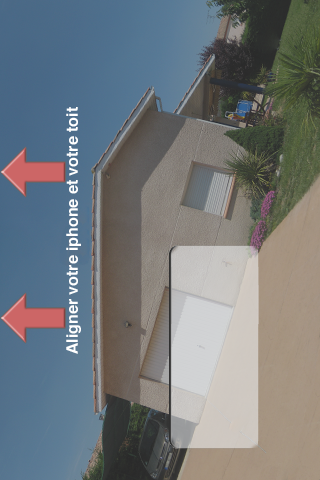
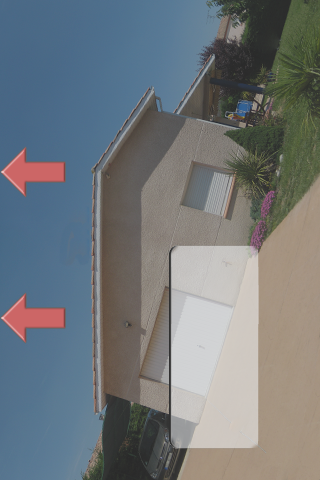
Rajout argument langue pour que le serveur réponde dans la bonne langue Modification de l'icône "Localiser son adresse" dans la partie GPS Suite de la mise en place des traductions dans l'application Optimisation du code pour ne pas passer par des variables NSString PB de la localisation de la page 

Changed region(s): [[0.1875, 0.2188, 0.25, 0.75]]

diff --git a/Classes/MenuViewController.m b/Classes/MenuViewController.m
@@ -56,11 +56,9 @@ const int CNX_VERSION_OBSOLETE = -2;
 - (void)viewDidLoad {
     //[super viewDidLoad];
     
-    NSString *sTexteRetour = NSLocalizedString(@"Back","");
-
     
 	// Bouton Retour
-    self.navigationItem.backBarButtonItem =  [[[UIBarButtonItem alloc] initWithTitle:sTexteRetour style: UIBarButtonItemStylePlain target:nil action:nil] autorelease];
+    self.navigationItem.backBarButtonItem =  [[[UIBarButtonItem alloc] initWithTitle:NSLocalizedString(@"Back","") style: UIBarButtonItemStylePlain target:nil action:nil] autorelease];
     
 	// Création par programme de la hiérarchie de vues (p34) 
     
@@ -79,17 +77,7 @@ const int CNX_VERSION_OBSOLETE = -2;
 	float btnHeight = 40.0;
 	float btnInterval = 10.0;
     
-    
-    NSString *sTexteEstimer = NSLocalizedString(@"Estimate my production",
-                                                @"Bouton du menu d'accueil - option Estimer ma production.");
-    
-    NSString *sTexteFiche_Proches = NSLocalizedString(@"Near installations",
-                                                      @"Bouton du menu d'accueil - option Fiches proches.");
-    
-    NSString *sTexteAbout = NSLocalizedString(@"About",
-                                              @"Bouton du menu d'accueil - option Fiche proche.");
-    
-    
+        
 	// ----- Bouton Estimer ma production
 	CGRect btnRect= CGRectMake(btnX, btnFirstY, btnWidth, btnHeight);
 	//UIButton *btnEstimer=[[UIButton alloc] initWithFrame:btnRect];
@@ -97,7 +85,7 @@ const int CNX_VERSION_OBSOLETE = -2;
 	//btnEstimer.backgroundColor=[UIColor clearColor];
 	btnEstimer.frame=btnRect;
     //	[btnEstimer setTitle:@"Estimer ma production" forState:UIControlStateNormal];
-	[btnEstimer setTitle:sTexteEstimer forState:UIControlStateNormal];
+	[btnEstimer setTitle:NSLocalizedString(@"Estimate my production","") forState:UIControlStateNormal];
 	//[btnEstimer setTitleColor:[UIColor blueColor] forState:UIControlStateNormal];
 	[btnEstimer addTarget:self action:@selector(actEstimer:) forControlEvents:UIControlEventTouchUpInside];
 	[rootView addSubview:btnEstimer];
@@ -110,7 +98,7 @@ const int CNX_VERSION_OBSOLETE = -2;
 	UIButton *btnFichesProches=[[UIButton buttonWithType:UIButtonTypeRoundedRect] retain];	// retain???
 	btnFichesProches.frame=btnRect;
     //	[btnFichesProches setTitle:@"Fiches proches" forState:UIControlStateNormal];
-	[btnFichesProches setTitle:sTexteFiche_Proches forState:UIControlStateNormal];
+	[btnFichesProches setTitle:NSLocalizedString(@"Near installations","") forState:UIControlStateNormal];
 	[btnFichesProches addTarget:self action:@selector(actFichesProches:) forControlEvents:UIControlEventTouchUpInside];
 	[rootView addSubview:btnFichesProches];
 	[btnFichesProches release];
@@ -134,7 +122,7 @@ const int CNX_VERSION_OBSOLETE = -2;
 	UIButton *btnAPropos=[[UIButton buttonWithType:UIButtonTypeRoundedRect] retain];	// retain???
 	btnAPropos.frame=btnRect;
     //	[btnAPropos setTitle:@"A propos" forState:UIControlStateNormal];
-	[btnAPropos setTitle:sTexteAbout forState:UIControlStateNormal];
+	[btnAPropos setTitle:NSLocalizedString(@"About","") forState:UIControlStateNormal];
 	[btnAPropos addTarget:self action:@selector(actAPropos:) forControlEvents:UIControlEventTouchUpInside];
 	[rootView addSubview:btnAPropos];
 	[btnAPropos release];
@@ -146,8 +134,7 @@ const int CNX_VERSION_OBSOLETE = -2;
 	[rootView release];
     
     //-------------------------------------------------------
-    NSString *sTextePatienter = NSLocalizedString(@"Checking connection iBDPV.fr\nPlease have patience ...","");
-    alertAttenteTestCnx = [[[UIAlertView alloc] initWithTitle:sTextePatienter message:nil delegate:self cancelButtonTitle:nil otherButtonTitles: nil] autorelease];
+    alertAttenteTestCnx = [[[UIAlertView alloc] initWithTitle:NSLocalizedString(@"Checking connection iBDPV.fr\nPlease have patience ...","") message:nil delegate:self cancelButtonTitle:nil otherButtonTitles: nil] autorelease];
     
     UIActivityIndicatorView *indicator = [[UIActivityIndicatorView alloc] initWithActivityIndicatorStyle: UIActivityIndicatorViewStyleWhiteLarge];
     // Adjust the indicator so it is up a few pixels from the bottom of the alert
@@ -253,10 +240,10 @@ const int CNX_VERSION_OBSOLETE = -2;
         
         iEtatConnexion = CNX_BAD;
         UIAlertView *alert = [[[UIAlertView alloc] 
-                               initWithTitle:@"Pas de connexion"
-                               message:@"Impossible de se connecter au serveur BDPV\nMerci d'activer votre connexion Internet et de relancer iBDPV."
+                               initWithTitle:NSLocalizedString(@"No connexion","")
+                               message:NSLocalizedString(@"Unable to connect to the BDPV server.\nPlease check your Internet Connection and try iBDPV again.","")
                                delegate:self
-                               cancelButtonTitle:@"Cancel"
+                               cancelButtonTitle:NSLocalizedString(@"Cancel","")
                                otherButtonTitles:nil]
                               autorelease];
         
@@ -314,22 +301,22 @@ const int CNX_VERSION_OBSOLETE = -2;
             {
                 case -1:
                     alert = [[[UIAlertView alloc] 
-                              initWithTitle:@"Version iBDPV obsolète"
-                              message:[NSString  stringWithFormat:@"Il est nécessaire de télécharger la nouvelle version (v%@).",Num_version_act]
-                              delegate:self
-                              cancelButtonTitle:@"Plus tard"
-                              otherButtonTitles:@"Télécharger",nil]
+                              initWithTitle:NSLocalizedString(@"iBDPV Obsolete version","")
+                              message:[NSString stringWithFormat:NSLocalizedString(@"It is necessary to download the new version (v%@).",""),Num_version_act]
+                               delegate:self
+                              cancelButtonTitle:NSLocalizedString(@"Later","")
+                              otherButtonTitles:NSLocalizedString(@"Download",""),nil]
                              autorelease];
                     [alert show];
                     iEtatConnexion = CNX_VERSION_OBSOLETE;
                     break;
                 case 0:
                     alert = [[[UIAlertView alloc] 
-                              initWithTitle:@"Nouvelle version iBDPV"
-                              message:[NSString stringWithFormat:@"Une version plus récente (v%@) est disponible.",Num_version_act]
+                              initWithTitle:NSLocalizedString(@"New iBDPV version","")
+                              message:[NSString stringWithFormat:NSLocalizedString(@"A newer version (v%@) is available.",""),Num_version_act]
                               delegate:self
-                              cancelButtonTitle:@"Plus tard"
-                              otherButtonTitles: @"Télécharger",nil]
+                              cancelButtonTitle:NSLocalizedString(@"Later","")
+                              otherButtonTitles: NSLocalizedString(@"Download",""),nil]
                              autorelease];
                     [alert show];
                     break;
@@ -340,10 +327,10 @@ const int CNX_VERSION_OBSOLETE = -2;
                     
                 case 2:
                     alert = [[[UIAlertView alloc] 
-                              initWithTitle:@"version iBDPV béta"
-                              message:@"Félicitation, vous utilisez une version béta, non disponible actuellement."
+                              initWithTitle:NSLocalizedString(@"iBDPV béta version","")
+                              message:NSLocalizedString(@"Congratulation, you are using a bèta version.","")
                               delegate:self
-                              cancelButtonTitle:@"OK"
+                              cancelButtonTitle:NSLocalizedString(@"Ok1","")
                               otherButtonTitles: nil]
                              autorelease];
                     [alert show];
@@ -351,10 +338,10 @@ const int CNX_VERSION_OBSOLETE = -2;
                     
                 case -99:
                     alert = [[[UIAlertView alloc] 
-                              initWithTitle:@"Erreur"
-                              message:[NSString stringWithFormat:@"Erreur inconnue (%@) renvoyée par le serveur iBDPV.fr\nMerci d'envoyer un mail à contact@ibdpv.fr",sTexte_erreur]
+                              initWithTitle:NSLocalizedString(@"Error","")
+                              message:[NSString stringWithFormat:NSLocalizedString(@"Unknown error (%@) from iBDPV.com server.\nPlease send a mail to contact@ibdpv.fr",""),sTexte_erreur]
                               delegate:self
-                              cancelButtonTitle:@"Ok"
+                              cancelButtonTitle:NSLocalizedString(@"Ok1","")
                               otherButtonTitles:nil]
                              autorelease];
                     [alert show];
@@ -363,10 +350,10 @@ const int CNX_VERSION_OBSOLETE = -2;
                     
                 default:
                     alert = [[[UIAlertView alloc] 
-                              initWithTitle:@"Erreur inconnue"
-                              message:[NSString stringWithFormat:@"Erreur inconnue renvoyée par le serveur iBDPV.fr\nMerci d'envoyer un mail à contact@ibdpv.fr"]
+                              initWithTitle:NSLocalizedString(@"Unknown error","")
+                              message:NSLocalizedString(@"Unknown error from iBDPV.com server.\nPlease send a mail to contact@ibdpv.fr","")
                               delegate:self
-                              cancelButtonTitle:@"Ok"
+                              cancelButtonTitle:NSLocalizedString(@"Ok1","")
                               otherButtonTitles:nil]
                              autorelease];
                     [alert show];
@@ -376,10 +363,10 @@ const int CNX_VERSION_OBSOLETE = -2;
         
      }  else { // Avec le if(success)
          UIAlertView *alert = [[[UIAlertView alloc] 
-                                initWithTitle:@"Erreur parsing XML"
-                                message:@"Problème d'extraction du XML"
+                                initWithTitle:NSLocalizedString(@"Error parsing XML","")
+                                message:NSLocalizedString(@"Problem extracting XML data","")
                                 delegate:self
-                                cancelButtonTitle:@"Annuler"
+                                cancelButtonTitle:NSLocalizedString(@"Cancel","")
                                 otherButtonTitles:nil]
                                autorelease];
          [alert show];
@@ -439,13 +426,13 @@ const int CNX_VERSION_OBSOLETE = -2;
     [alertAttenteTestCnx dismissWithClickedButtonIndex:0 animated:YES];
      
     UIAlertView *alert = [[[UIAlertView alloc] 
-                           initWithTitle:@"Pas de connexion"
-                           message:@"Impossible de se connecter au serveur BDPV\nMerci d'activer votre connexion Internet et de relancer iBDPV."
+                           initWithTitle:NSLocalizedString(@"No connexion","")
+                           message:NSLocalizedString(@"Unable to connect to the BDPV server.\nPlease check your Internet Connection and try iBDPV again.","")
                            delegate:self
-                           cancelButtonTitle:@"Cancel"
+                           cancelButtonTitle:NSLocalizedString(@"Cancel","")
                            otherButtonTitles:nil]
                           autorelease];
-    
+   
     
     [alert show];
         
@@ -498,20 +485,20 @@ const int CNX_VERSION_OBSOLETE = -2;
     // IMPORTANT  - Faire une fonction pour les UIAlertView (il y en a 2 qui se répète)
     if (iEtatConnexion == CNX_VERSION_OBSOLETE) {
         UIAlertView *alert = [[[UIAlertView alloc] 
-                               initWithTitle:@"Version iBDPV obsolète"
-                               message:[NSString  stringWithFormat:@"Il est nécessaire de télécharger la nouvelle version."]
-                               delegate:self
-                               cancelButtonTitle:@"Plus tard"
-                               otherButtonTitles:@"Télécharger",nil]
+                               initWithTitle:NSLocalizedString(@"iBDPV Obsolete version","")
+                               message:NSLocalizedString(@"It is necessary to download the new version.","")
+                                delegate:self
+                               cancelButtonTitle:NSLocalizedString(@"Later","")
+                               otherButtonTitles: NSLocalizedString(@"Download",""),nil]
                               autorelease];
         [alert show];       
     } // Fin du if (iEtatConnexion == CNX_VERSION_OBSOLETE) {
     else if (iEtatConnexion == CNX_BAD) {
         UIAlertView *alert = [[[UIAlertView alloc] 
-                               initWithTitle:@"IMPOSSIBLE"
-                               message:@"Pas de connexion Internet\nMerci d'activer votre connexion Internet et de relancer iBDPV."
+                               initWithTitle:NSLocalizedString(@"No connexion","")
+                               message:NSLocalizedString(@"Unable to connect to the BDPV server.\nPlease check your Internet Connection and try iBDPV again.","")
                                delegate:self
-                               cancelButtonTitle:@"Annuler"
+                               cancelButtonTitle:NSLocalizedString(@"Cancel","")
                                otherButtonTitles:nil]
                               autorelease];
         
@@ -534,19 +521,19 @@ const int CNX_VERSION_OBSOLETE = -2;
     
     if (iEtatConnexion == CNX_VERSION_OBSOLETE) {
         UIAlertView *alert = [[[UIAlertView alloc] 
-                    initWithTitle:@"Version iBDPV obsolète"
-                    message:[NSString  stringWithFormat:@"Il est nécessaire de télécharger la nouvelle version."]
+                    initWithTitle:NSLocalizedString(@"iBDPV Obsolete version","")
+                    message:NSLocalizedString(@"It is necessary to download the new version.","")
                     delegate:self
-                    cancelButtonTitle:@"Plus tard"
-                    otherButtonTitles:@"Télécharger",nil]
+                    cancelButtonTitle:NSLocalizedString(@"Later","")
+                    otherButtonTitles: NSLocalizedString(@"Download",""),nil]
                     autorelease];
         [alert show];       
     } else if (iEtatConnexion == CNX_BAD) {
         UIAlertView *alert = [[[UIAlertView alloc] 
-                               initWithTitle:@"Fonction non disponible"
-                               message:@"Pas de connexion Internet\nMerci d'activer votre connexion Internet et de relancer iBDPV."
+                               initWithTitle:NSLocalizedString(@"No connexion","")
+                               message:NSLocalizedString(@"Unable to connect to the BDPV server.\nPlease check your Internet Connection and try iBDPV again.","")
                                delegate:self
-                               cancelButtonTitle:@"Annuler"
+                               cancelButtonTitle:NSLocalizedString(@"Cancel","")
                                otherButtonTitles:nil]
                               autorelease];
         

diff --git a/Classes/Estim1GPSViewController.m b/Classes/Estim1GPSViewController.m
@@ -95,8 +95,6 @@
 	
 	//Titre
     self.title=NSLocalizedString(@"Locate your house","");
-    NSString *sTexteRetour = NSLocalizedString(@"Back","");
-    NSString *sTexteValider = NSLocalizedString(@"Ok","");
 
 	//Désactivation du bouton Back
 	//[self.navigationItem setHidesBackButton:YES];
@@ -106,13 +104,13 @@
 	
 	//Création des boutons
 	// Bouton Retour
-    self.navigationItem.backBarButtonItem =  [[[UIBarButtonItem alloc] initWithTitle:sTexteRetour style: UIBarButtonItemStylePlain target:nil action:nil] autorelease];
+    self.navigationItem.backBarButtonItem =  [[[UIBarButtonItem alloc] initWithTitle:NSLocalizedString(@"Back","") style: UIBarButtonItemStylePlain target:nil action:nil] autorelease];
     
 	//Espacement
 	UIBarButtonItem *flexibleSpaceButtonItem = [[UIBarButtonItem alloc] initWithBarButtonSystemItem:UIBarButtonSystemItemFlexibleSpace target:nil action:nil];
     
     //Valider
-	UIBarButtonItem *btnValidateItem=[[UIBarButtonItem alloc] initWithTitle:sTexteValider style:UIBarButtonItemStyleDone target:self action:@selector(actValidate:)];
+	UIBarButtonItem *btnValidateItem=[[UIBarButtonItem alloc] initWithTitle:NSLocalizedString(@"Ok1","") style:UIBarButtonItemStyleDone target:self action:@selector(actValidate:)];
     btnValidateItem.enabled=NO;
     self.validateItem=btnValidateItem;
     
@@ -420,10 +418,10 @@
         //NSLog(@"No Errors");
     } else {  // Avec le if(success) {
         UIAlertView *alert = [[[UIAlertView alloc] 
-                               initWithTitle:@"Error"
-                               message:@"Pb du parsing XML"
+                               initWithTitle:NSLocalizedString(@"Error","")
+                               message:NSLocalizedString(@"Error parsing XML","")
                                delegate:self
-                               cancelButtonTitle:@"Cancel"
+                               cancelButtonTitle:NSLocalizedString(@"Cancel","")
                                otherButtonTitles:nil]
                               autorelease];
         [alert show];
@@ -462,7 +460,7 @@
         UITextField *txtSearch=[[UITextField alloc] initWithFrame:CGRectMake(0 , 0, 230, 28)];
         txtSearch.backgroundColor=[UIColor clearColor];
         txtSearch.borderStyle=UITextBorderStyleRoundedRect;
-        txtSearch.placeholder=@"<Entrez une adresse>";
+        txtSearch.placeholder=NSLocalizedString(@"Enter an address","");
 #if TARGET_IPHONE_SIMULATOR
         txtSearch.text=@"hotel-dieu 75004 paris";   //Debug
 #endif

diff --git a/Classes/Estim2aPenteAutoView.m b/Classes/Estim2aPenteAutoView.m
@@ -92,6 +92,14 @@ CGFloat DegreesToPourcent3(CGFloat degrees) {return tan(DegreesToRadians3(degree
     shadowPourcentDisplayView.textAlignment = UITextAlignmentCenter;
     
     
+ //ATD  Pour ESSAI TEXTE =!!!!!!!!!!!!
+    AlignTextDisplayView = [[UILabel alloc] initWithFrame:CGRectMake(-78.0, 200.0, 300.0, 20.0)];
+    AlignTextDisplayView.font = [UIFont fontWithName:@"Helvetica-Bold" size:17];
+    AlignTextDisplayView.textColor = [UIColor colorWithRed:255.0 green:255.0 blue:255.0 alpha:1.0];
+    AlignTextDisplayView.backgroundColor = [UIColor clearColor];
+    AlignTextDisplayView.textAlignment = UITextAlignmentCenter;
+    AlignTextDisplayView.text = NSLocalizedString(@"Align your iPhone and your roof","");
+    
     #define kStdButtonWidth		106.0
     #define kStdButtonHeight	40.0
     #define okShiftRight        240.0
@@ -137,6 +145,7 @@ CGFloat DegreesToPourcent3(CGFloat degrees) {return tan(DegreesToRadians3(degree
 
     degreeDisplayView.layer.transform = landscapeTransform;
     pourcentDisplayView.layer.transform = landscapeTransform;
+    AlignTextDisplayView.layer.transform = landscapeTransform;
     shadowDegreeDisplayView.layer.transform = landscapeTransform;
     shadowPourcentDisplayView.layer.transform = landscapeTransform;
     okButton.layer.transform = landscapeTransform;
@@ -147,6 +156,7 @@ CGFloat DegreesToPourcent3(CGFloat degrees) {return tan(DegreesToRadians3(degree
     [self addSubview:levelFrontGaucheView];
     [self addSubview:shadowDegreeDisplayView];
     [self addSubview:shadowPourcentDisplayView];
+    [self addSubview:AlignTextDisplayView];
     [self addSubview:degreeDisplayView];
     [self addSubview:pourcentDisplayView];
     [self addSubview:okButton];
@@ -171,6 +181,7 @@ CGFloat DegreesToPourcent3(CGFloat degrees) {return tan(DegreesToRadians3(degree
 	[levelFrontGaucheView release];
     [shadowDegreeDisplayView release];
     [shadowPourcentDisplayView release];
+    [AlignTextDisplayView release];
     [degreeDisplayView release];
     [pourcentDisplayView release];
     [super dealloc];

diff --git a/Classes/Estim2aPenteAutoViewController.m b/Classes/Estim2aPenteAutoViewController.m
@@ -34,12 +34,12 @@
 //-------------------------------------------------------------------------------------------------------------------------------
 - init {
 	if (self = [super init]) {
-        UIAlertImageView *alert = [[UIAlertImageView alloc] initWithTitle:@"Etape 2/3 - Pente"
-                                                                  message:@"Inclinez votre iPhone afin de faire correspondre  son côté avec votre toit, comme sur la photo ci-dessous."
+        UIAlertImageView *alert = [[UIAlertImageView alloc] initWithTitle:NSLocalizedString(@"Step 2/3 - Slope","")
+                                                                  message:NSLocalizedString(@"Incline your iPhone so that it lines up with your roof like on the picture below.","")
                                                                  delegate:self
                                    //												cancelButtonTitle:@"Cancel"
                                                         cancelButtonTitle:nil
-                                                        otherButtonTitles:@"OK", nil];
+                                                        otherButtonTitles:NSLocalizedString(@"Ok1",""), nil];
         
         [alert show];
         [alert release];
@@ -76,12 +76,9 @@
 //-------------------------------------------------------------------------------------------------------------------------------
 // Implement viewDidLoad to do additional setup after loading the view, typically from a nib.
 - (void)viewDidLoad {
-	
-    NSString *sTexteRetour = NSLocalizedString(@"Back","");
-
 
     // Bouton Retour
-    self.navigationItem.backBarButtonItem =  [[[UIBarButtonItem alloc] initWithTitle:sTexteRetour style: UIBarButtonItemStylePlain target:nil action:nil] autorelease];
+    self.navigationItem.backBarButtonItem =  [[[UIBarButtonItem alloc] initWithTitle:NSLocalizedString(@"Back","") style: UIBarButtonItemStylePlain target:nil action:nil] autorelease];
     
     //NSLog(@"viewDidLoad: Estim2PenteViewController");
 	

diff --git a/Classes/UserData.m b/Classes/UserData.m
@@ -77,6 +77,11 @@
     // On rajoute le demandeur et l'identifieur
     [paramTabString  addObject:[NSString  stringWithFormat:@"uid=%@",self.uniqueIdentifierMD5]];
     [paramTabString  addObject:[NSString  stringWithFormat:@"api_demandeur=%@",API_DEMANDEUR]];
+    
+    // On rajoute la langue
+    NSString *sTextLangue= NSLocalizedString(@"Langue","");
+    [paramTabString  addObject:[NSString  stringWithFormat:@"langue=%@",sTextLangue]];
+
 
     // On calcule la signature
     NSString *api_sig;

diff --git a/Classes/Estim2aPenteAutoView.h b/Classes/Estim2aPenteAutoView.h
@@ -18,6 +18,7 @@
 	UILabel *shadowDegreeDisplayView;
 	UILabel *pourcentDisplayView;
 	UILabel *shadowPourcentDisplayView;
+    UILabel *AlignTextDisplayView;
     int Pente;
 }
 
